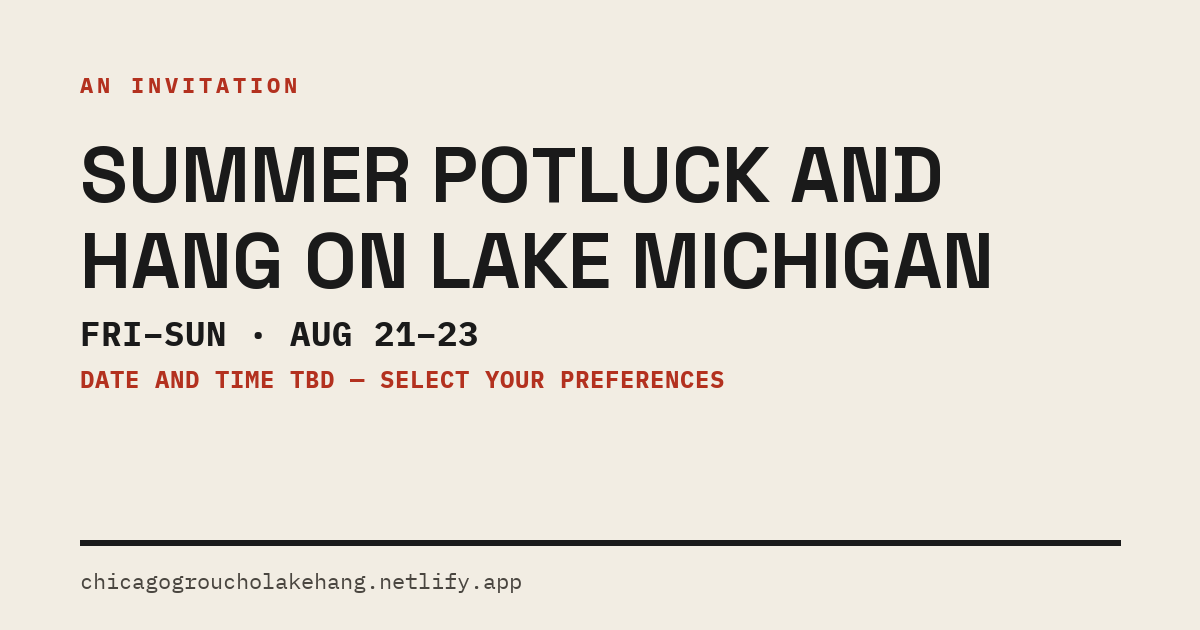
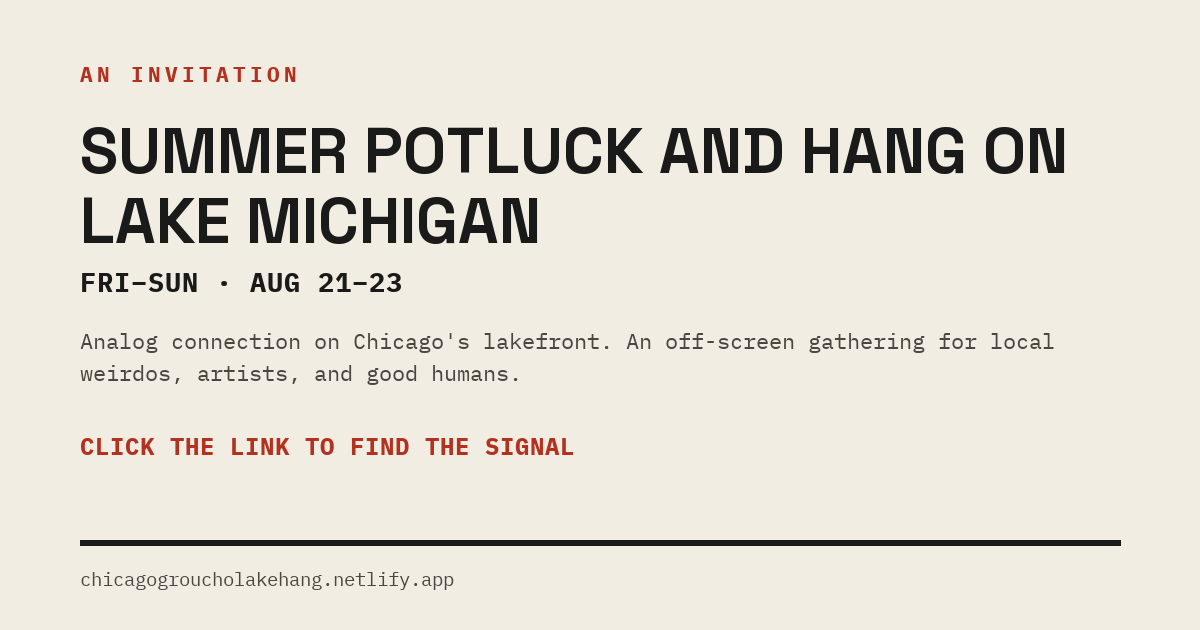
New brand voice copy across flyer, site hero, and link preview card
"Analog connection on Chicago's lakefront. An off-screen gathering
for local weirdos, artists, and good humans." now anchors all three
surfaces, each with a tailored close:
- Flyer: "Scan to find the signal."
- Site hero: "Bring food, beverages, and anything else that brings
  your humanity to the hang."
- Link preview image: redesigned with real spacing between eyebrow/
  headline/date, body copy, and a standalone accent-red CTA line,
  "Click the link to find the signal."

diff --git a/index.html b/index.html
@@ -8,7 +8,7 @@
 <!-- Open Graph / link previews (iMessage, Slack, Facebook, etc.) -->
 <meta property="og:type" content="website">
 <meta property="og:title" content="Summer Potluck and Hang on Lake Michigan">
-<meta property="og:description" content="Date and time TBD — select your preferences. A hang at the lake, Fri–Sun Aug 21–23, Chicago's North Side lakefront.">
+<meta property="og:description" content="Analog connection on Chicago's lakefront. An off-screen gathering for local weirdos, artists, and good humans. Date and time TBD — select your preferences.">
 <meta property="og:url" content="https://chicagogroucholakehang.netlify.app/">
 <meta property="og:image" content="https://chicagogroucholakehang.netlify.app/assets/og-image.png">
 <meta property="og:image:width" content="1200">
@@ -18,7 +18,7 @@
 <!-- Twitter/X card -->
 <meta name="twitter:card" content="summary_large_image">
 <meta name="twitter:title" content="Summer Potluck and Hang on Lake Michigan">
-<meta name="twitter:description" content="Date and time TBD — select your preferences. A hang at the lake, Fri–Sun Aug 21–23, Chicago's North Side lakefront.">
+<meta name="twitter:description" content="Analog connection on Chicago's lakefront. An off-screen gathering for local weirdos, artists, and good humans. Date and time TBD — select your preferences.">
 <meta name="twitter:image" content="https://chicagogroucholakehang.netlify.app/assets/og-image.png">
 
 <link rel="preconnect" href="https://fonts.googleapis.com">
@@ -34,7 +34,7 @@
     <h1>SUMMER POTLUCK AND HANG ON LAKE MICHIGAN</h1>
     <p class="date-line">FRI&ndash;SUN, AUG 21&ndash;23</p>
     <p class="tbd-line">Date and Time TBD. Select your preferences.</p>
-    <p class="intro">A hang at the lake, sometime between Friday and Sunday. No agenda beyond good people getting together. Answer the two questions below so we can lock in when.</p>
+    <p class="intro">Analog connection on Chicago's lakefront. An off-screen gathering for local weirdos, artists, and good humans. Bring food, beverages, and anything else that brings your humanity to the hang.</p>
   </header>
 
   <div class="callout">

diff --git a/flyer.html b/flyer.html
@@ -149,8 +149,7 @@
 
   <hr class="rule">
 
-  <p class="intro">One afternoon at the lake, sometime between Friday and Sunday. No agenda beyond good people getting together &mdash; water, fire, and whoever brings food.</p>
-  <p class="intro">Chicago's North Side lakefront. Exact day, time, and spot get locked in by the group &mdash; scan for details.</p>
+  <p class="intro">Analog connection on Chicago's lakefront. An off-screen gathering for local weirdos, artists, and good humans. Scan to find the signal.</p>
 
   <div class="main">
     <div class="qr-block">
